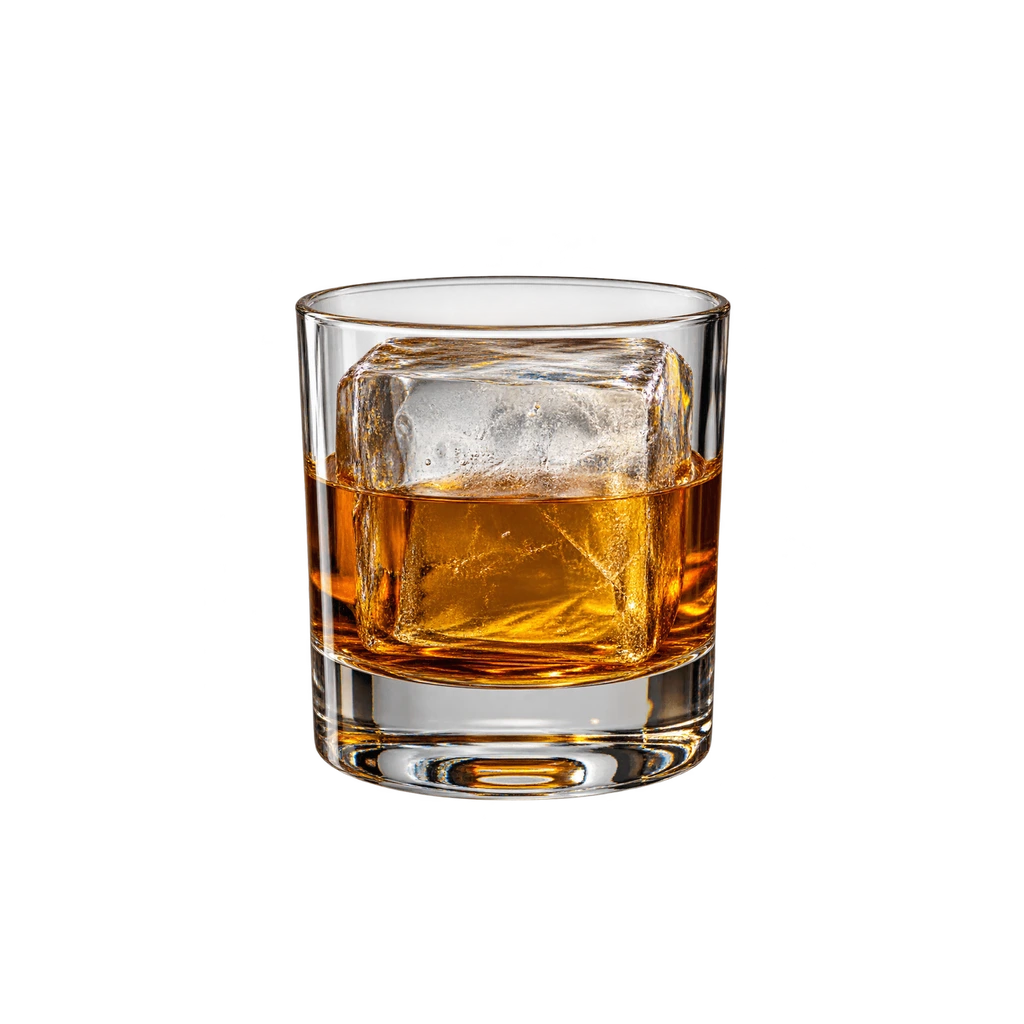
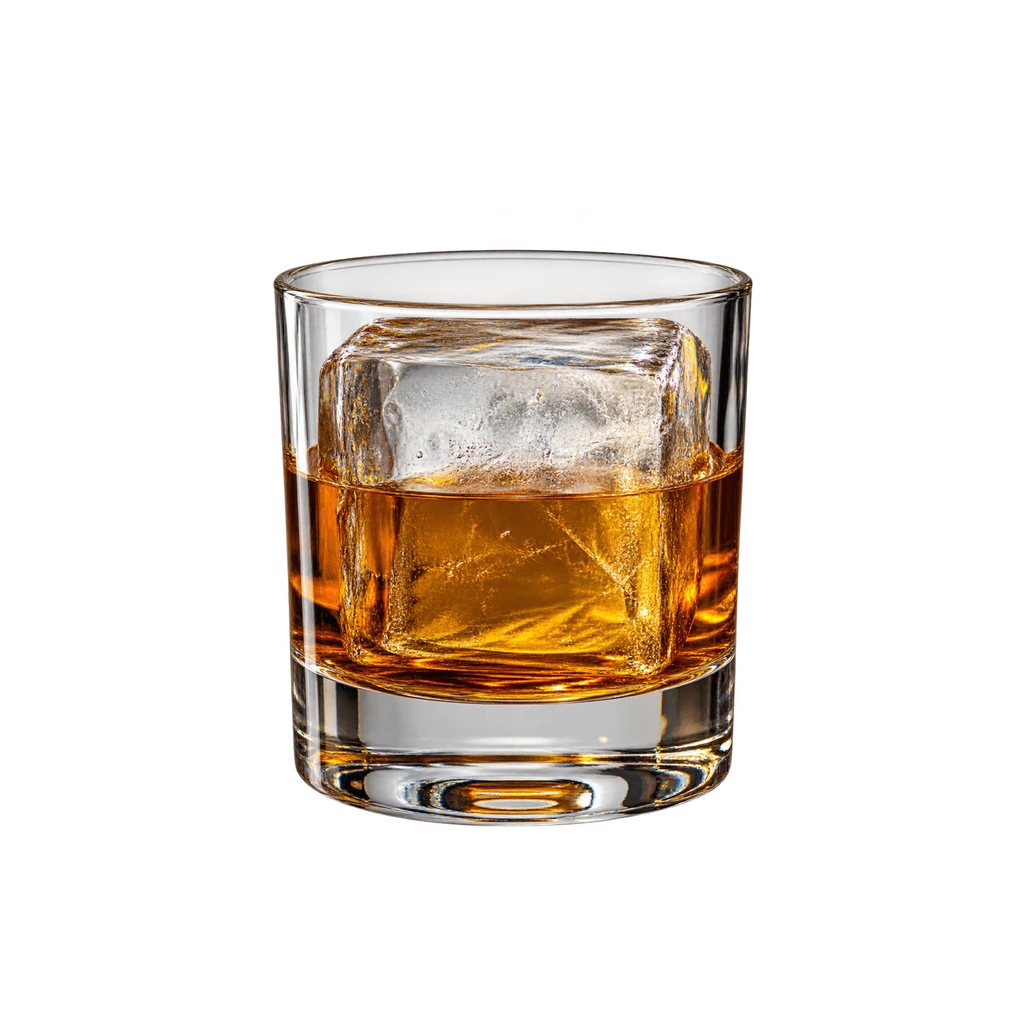
Rock Star: tumbler 10% larger (66% of the disc)
Claude-Session: https://claude.ai/code/session_01AZ8iwqXLZ5qhPw7zXZYheZ

Changed region(s): [[0.25, 0.2188, 0.75, 0.8125]]

diff --git a/scripts/rock_star_medal.py b/scripts/rock_star_medal.py
@@ -19,7 +19,7 @@ from PIL import Image
 
 SRC = "public/badges/masters/parts/rocks-tumbler.png"
 S = 1024
-GLASS_H = 0.60      # glass height as a fraction of the disc
+GLASS_H = 0.66      # glass height as a fraction of the disc
 GLASS_CY = 0.52     # vertical centre of the glass on the disc (same as neat_freak)
 args = sys.argv[1:]
 preview_dir = args[args.index("--preview-dir") + 1] if "--preview-dir" in args else "public/badges/review/rocks"
